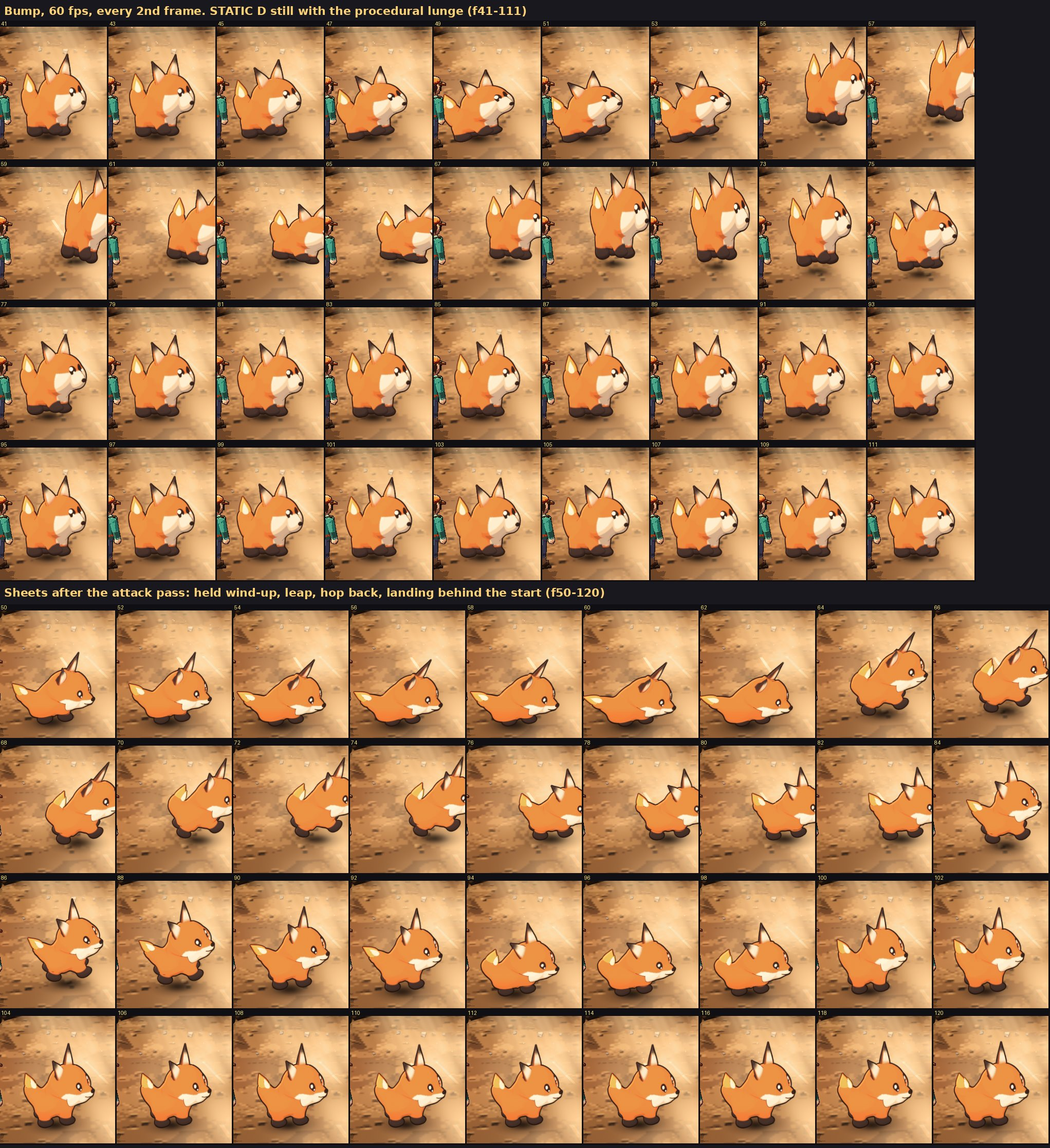
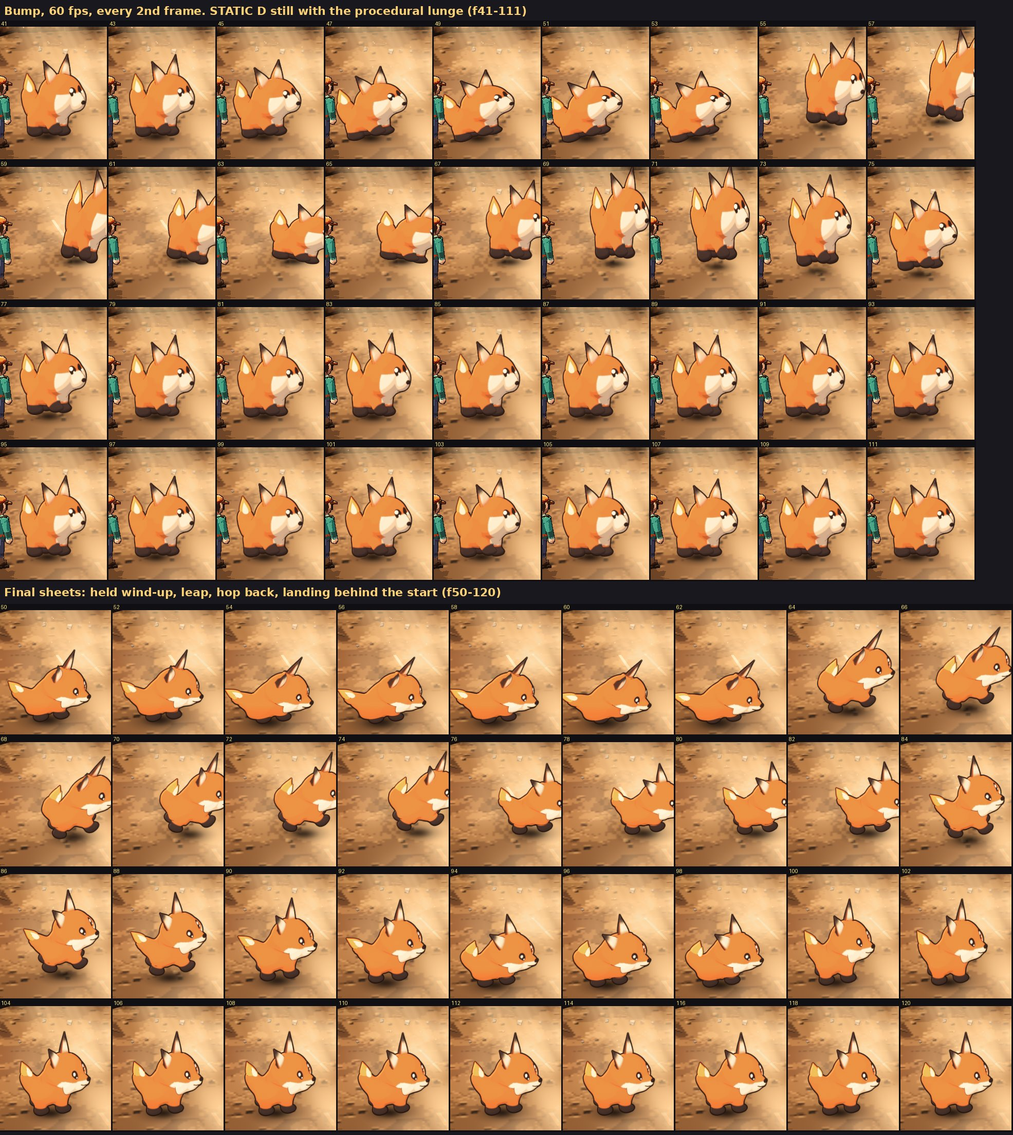
ashkit gate 2 round 3: final sheets verified (stills 3 better / 1 no_difference, attack strip better 4/4)
Claude-Session: https://claude.ai/code/session_01GXy7aLpJUNjM9LVgoKLJCi

diff --git a/game/art/ashkit/review/GATE2.md b/game/art/ashkit/review/GATE2.md
@@ -114,3 +114,23 @@ floor's value, so a darker contact shadow or a rim would help. Cragmaul's browns
    baked battle turn. Keep it, or try about 12° with ears splayed outward instead? Default: keep.
 3. The attack animation (`gate2_attack_strips.jpg`, about 1 min): do one more attack-clip pass before the
    other 19 kin, or move on and tune motion later? Default: one more pass.
+
+## Round 3: the attack pass and the final sheets (2026-10-16, later)
+
+After "keep going" (owner defaults kept: Ashkit is the template, the back-view head turn stays):
+- **Attack clip pass** (`../../kin/lib/quad.py`, authored on Ashkit): a deep crouch reached in one drawing and held as a
+  coiled wind-up, a bolder stretched leap, a two-drawing hop back that lands behind the start, a landing squash, then
+  settle. Contact stays on drawing 6, so there's no added latency. The sheet JSON now carries the attack's **travel
+  curve** (`travel.fwd`/`travel.ease`: the position snaps with the drawing except in the air). The sheet player
+  (`prototype/kinsheet.ts`, `attackTravel`) follows it instead of its old table, so held drawings no longer slide.
+- The new poses moved the shared camera framing, so **all 84 frames were re-rendered** (a partial render had mixed
+  framings; `sheetkit` now refuses that).
+- **Final verification** (same run, same baseline `?kinsheet=0`, dist with the final sheets):
+  - Stills: cave desk `better` (4/4 frame), cave phone `better` (4/4 frame, 4/4 crop), meadow desk `better` (4/4,
+    4/4), meadow phone `no_difference` (3/4 frame, 2/4 crop; canary weak at 2/2). **None `worse`.** Floors pass.
+  - Attack strip (window aligned to the drawn crouch, f50-120): **`better`, 4/4 at confidence 3** ("a held,
+    readable crouch anticipation, a committed lunge, clear recoil with squash on landing"). The blur canary is weak
+    again (confidence 1-2), so this is thin evidence by rule 9, but it reverses gate 2's `worse` 0/4.
+  - Motion lint: anticipation 10 frames and 7.7 texels deep (static 5.7), strike 11 frames, overshoot 5.1 texels
+    (static 14.5), distinct poses 0.50 (keyed drawings).
+- Judge cost for round 3: about $1.9.
